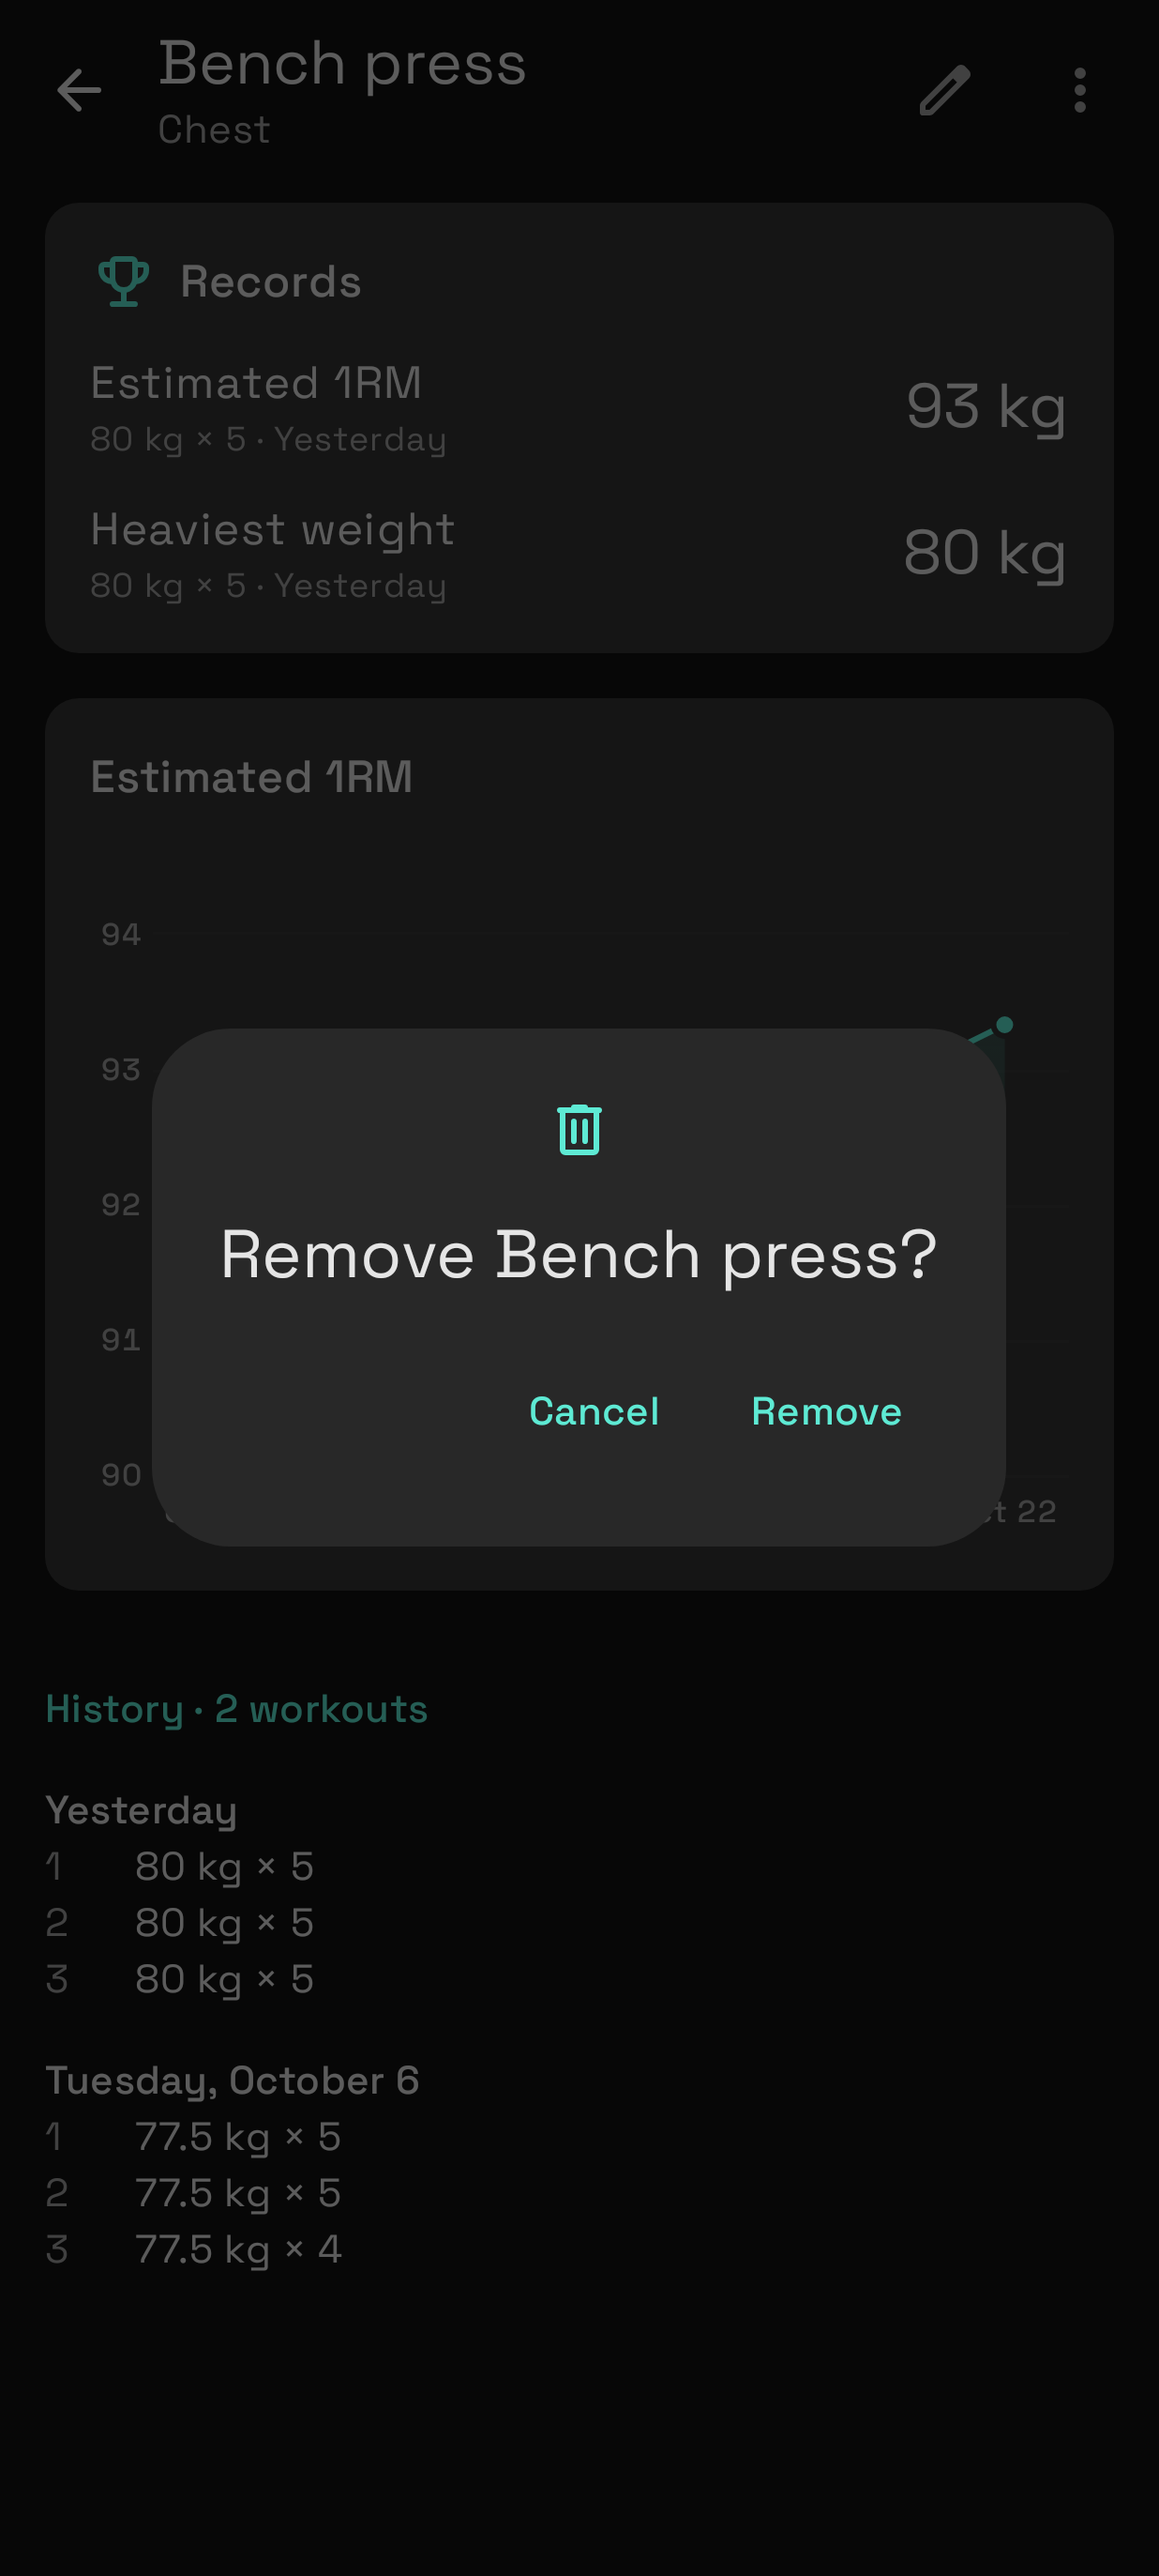
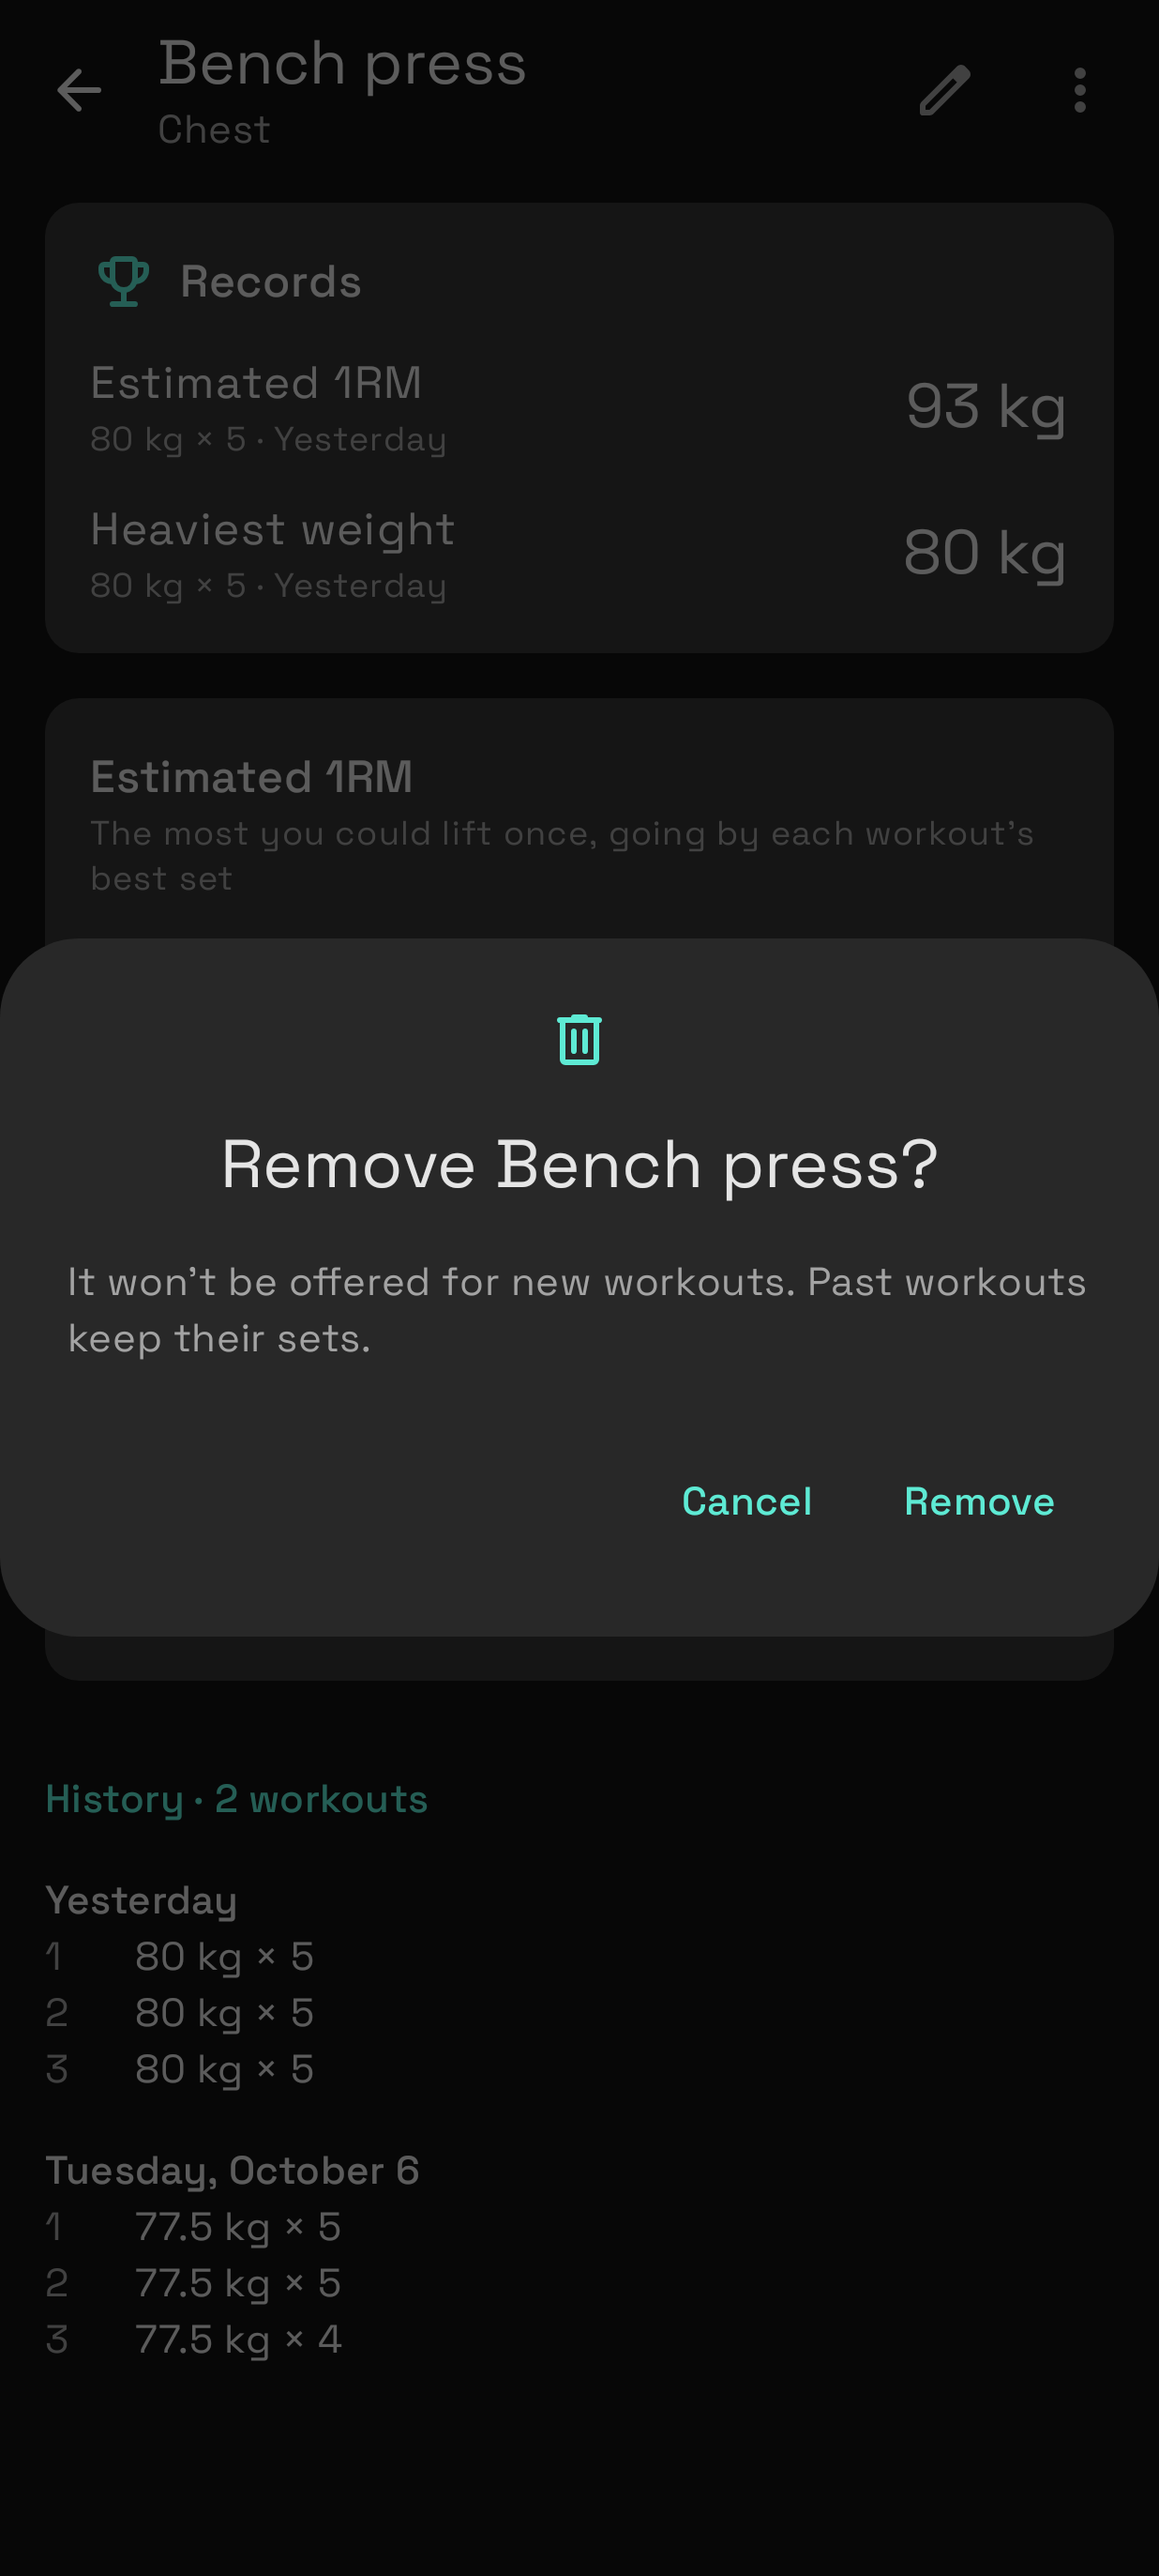
feat(lift): bring back lines that say what the screen can't
Hints for bodyweight loads, each side and the estimated 1RM, what deleting or removing does to past workouts, empty exercise, template and history pages, and a prompt in the notes field.

diff --git a/apps/lift/src/main/kotlin/dev/freeranger/range/lift/ui/exercise/ExerciseScreens.kt b/apps/lift/src/main/kotlin/dev/freeranger/range/lift/ui/exercise/ExerciseScreens.kt
@@ -10,6 +10,7 @@ import androidx.compose.foundation.layout.fillMaxSize
 import androidx.compose.foundation.layout.fillMaxWidth
 import androidx.compose.foundation.layout.padding
 import androidx.compose.foundation.layout.width
+import androidx.compose.foundation.layout.wrapContentSize
 import androidx.compose.foundation.lazy.LazyColumn
 import androidx.compose.foundation.lazy.items
 import androidx.compose.material3.AlertDialog
@@ -36,6 +37,7 @@ import androidx.compose.ui.Alignment
 import androidx.compose.ui.Modifier
 import androidx.compose.ui.res.pluralStringResource
 import androidx.compose.ui.res.stringResource
+import androidx.compose.ui.text.style.TextAlign
 import androidx.compose.ui.unit.dp
 import androidx.lifecycle.compose.collectAsStateWithLifecycle
 import androidx.lifecycle.viewmodel.compose.viewModel
@@ -204,6 +206,17 @@ fun ExerciseDetailScreen(
         },
     ) { padding ->
         LazyColumn(Modifier.fillMaxSize(), contentPadding = PaddingValues(top = padding.calculateTopPadding(), bottom = padding.calculateBottomPadding() + RangeSpace.s4)) {
+            if (state.sessions.isEmpty() && exercise != null) {
+                item(key = "empty") {
+                    Text(
+                        stringResource(R.string.exercise_no_sets),
+                        modifier = Modifier.fillParentMaxSize().wrapContentSize().padding(RangeSpace.s8),
+                        style = MaterialTheme.typography.bodyLarge,
+                        color = MaterialTheme.colorScheme.onSurfaceVariant,
+                        textAlign = TextAlign.Center,
+                    )
+                }
+            }
             if (state.records.isNotEmpty()) {
                 item(key = "records") { RecordsCard(state.records, today, format) }
             }
@@ -241,6 +254,7 @@ fun ExerciseDetailScreen(
             onDismissRequest = { removing = false },
             icon = { Icon(RangeIcons.Delete, contentDescription = null) },
             title = { Text(stringResource(R.string.exercise_remove_title, format.name(exercise))) },
+            text = { Text(stringResource(R.string.exercise_remove_text)) },
             confirmButton = {
                 TextButton(
                     onClick = {
@@ -270,7 +284,16 @@ private fun ProgressCard(progression: Progression, today: LocalDate, format: Lif
     val value = { v: Double -> format.metric(metric, v) }
     Card(Modifier.fillMaxWidth().padding(horizontal = RangeSpace.gutter, vertical = RangeSpace.s2)) {
         Column(Modifier.padding(RangeSpace.s4), verticalArrangement = Arrangement.spacedBy(RangeSpace.s3)) {
-            Text(stringResource(metric.title), style = MaterialTheme.typography.titleMedium)
+            Column {
+                Text(stringResource(metric.title), style = MaterialTheme.typography.titleMedium)
+                if (metric == ProgressMetric.OneRepMax) {
+                    Text(
+                        stringResource(R.string.progress_one_rep_max_hint),
+                        style = MaterialTheme.typography.bodySmall,
+                        color = MaterialTheme.colorScheme.onSurfaceVariant,
+                    )
+                }
+            }
             if (ranges.size > 1) {
                 Row(horizontalArrangement = Arrangement.spacedBy(RangeSpace.s2)) {
                     ranges.forEach {

diff --git a/apps/lift/src/main/kotlin/dev/freeranger/range/lift/ui/exercise/ExerciseList.kt b/apps/lift/src/main/kotlin/dev/freeranger/range/lift/ui/exercise/ExerciseList.kt
@@ -8,6 +8,7 @@ import androidx.compose.foundation.layout.fillMaxSize
 import androidx.compose.foundation.layout.fillMaxWidth
 import androidx.compose.foundation.layout.padding
 import androidx.compose.foundation.layout.size
+import androidx.compose.foundation.layout.wrapContentSize
 import androidx.compose.foundation.lazy.LazyColumn
 import androidx.compose.foundation.lazy.items
 import androidx.compose.foundation.shape.CircleShape
@@ -27,6 +28,7 @@ import androidx.compose.ui.Alignment
 import androidx.compose.ui.Modifier
 import androidx.compose.ui.graphics.compositeOver
 import androidx.compose.ui.res.stringResource
+import androidx.compose.ui.text.style.TextAlign
 import androidx.compose.ui.unit.dp
 import dev.freeranger.range.lift.R
 import dev.freeranger.range.lift.data.Exercise
@@ -50,6 +52,8 @@ fun ExerciseList(
     modifier: Modifier = Modifier,
     recent: List<Exercise> = emptyList(),
     selected: List<Long>? = null,
+    /** Says so when the library is empty, once it has loaded. */
+    showEmpty: Boolean = false,
 ) {
     val format = rememberLiftFormat()
     var query by rememberSaveable { mutableStateOf("") }
@@ -97,6 +101,17 @@ fun ExerciseList(
                 singleLine = true,
                 shape = CircleShape,
             )
+        }
+        if (showEmpty && exercises.none { !it.archived }) {
+            item(key = "empty") {
+                Text(
+                    stringResource(R.string.exercises_empty),
+                    modifier = Modifier.fillParentMaxSize().wrapContentSize().padding(RangeSpace.s8),
+                    style = MaterialTheme.typography.bodyLarge,
+                    color = MaterialTheme.colorScheme.onSurfaceVariant,
+                    textAlign = TextAlign.Center,
+                )
+            }
         }
         if (groups.isEmpty() && query.isNotBlank()) {
             item(key = "none") {

diff --git a/apps/lift/src/main/kotlin/dev/freeranger/range/lift/ui/template/TemplatesScreen.kt b/apps/lift/src/main/kotlin/dev/freeranger/range/lift/ui/template/TemplatesScreen.kt
@@ -5,6 +5,7 @@ import androidx.compose.foundation.layout.PaddingValues
 import androidx.compose.foundation.layout.fillMaxSize
 import androidx.compose.foundation.layout.fillMaxWidth
 import androidx.compose.foundation.layout.padding
+import androidx.compose.foundation.layout.wrapContentSize
 import androidx.compose.foundation.lazy.LazyColumn
 import androidx.compose.foundation.lazy.items
 import androidx.compose.material3.Card
@@ -23,6 +24,7 @@ import androidx.compose.runtime.saveable.rememberSaveable
 import androidx.compose.runtime.setValue
 import androidx.compose.ui.Modifier
 import androidx.compose.ui.res.stringResource
+import androidx.compose.ui.text.style.TextAlign
 import androidx.compose.ui.text.style.TextOverflow
 import androidx.compose.ui.unit.dp
 import androidx.lifecycle.compose.collectAsStateWithLifecycle
@@ -93,6 +95,17 @@ fun TemplatesScreen(
             Modifier.fillMaxSize(),
             contentPadding = PaddingValues(top = padding.calculateTopPadding() + RangeSpace.s2, bottom = padding.calculateBottomPadding() + 96.dp),
         ) {
+            if (state.loaded && state.templates.isEmpty()) {
+                item(key = "empty") {
+                    Text(
+                        stringResource(R.string.templates_empty),
+                        modifier = Modifier.fillParentMaxSize().wrapContentSize().padding(RangeSpace.s8),
+                        style = MaterialTheme.typography.bodyLarge,
+                        color = MaterialTheme.colorScheme.onSurfaceVariant,
+                        textAlign = TextAlign.Center,
+                    )
+                }
+            }
             items(state.templates, key = { it.template.id }) { template ->
                 TemplateCard(template, state.lastDone[template.template.id], today, format, onClick = { onOpen(template.template.id) })
             }

diff --git a/apps/lift/src/main/kotlin/dev/freeranger/range/lift/ui/exercise/ExerciseEditScreen.kt b/apps/lift/src/main/kotlin/dev/freeranger/range/lift/ui/exercise/ExerciseEditScreen.kt
@@ -21,6 +21,7 @@ import androidx.compose.material3.Icon
 import androidx.compose.material3.IconButton
 import androidx.compose.material3.ListItem
 import androidx.compose.material3.ListItemDefaults
+import androidx.compose.material3.MaterialTheme
 import androidx.compose.material3.OutlinedTextField
 import androidx.compose.material3.RadioButton
 import androidx.compose.material3.Scaffold
@@ -177,10 +178,12 @@ fun ExerciseEditScreen(
                     )
                 }
             }
+            if (load == Load.Bodyweight) Hint(stringResource(R.string.load_bodyweight_hint))
 
             RangeSectionHeader(stringResource(R.string.exercise_more))
             ListItem(
                 headlineContent = { Text(stringResource(R.string.exercise_each_side)) },
+                supportingContent = { Text(stringResource(R.string.exercise_each_side_hint)) },
                 trailingContent = { Switch(checked = perSide, onCheckedChange = null) },
                 colors = ListItemDefaults.colors(containerColor = Color.Transparent),
                 modifier = Modifier.toggleable(value = perSide, role = Role.Switch) { perSide = it },
@@ -189,4 +192,15 @@ fun ExerciseEditScreen(
     }
 
     if (autoFocus) LaunchedEffect(Unit) { focus.requestFocus() }
+}
+
+/** A line under a choice that says what the choice can't. */
+@Composable
+private fun Hint(text: String) {
+    Text(
+        text,
+        modifier = Modifier.padding(horizontal = RangeSpace.gutter, vertical = RangeSpace.s2),
+        style = MaterialTheme.typography.bodySmall,
+        color = MaterialTheme.colorScheme.onSurfaceVariant,
+    )
 }

diff --git a/apps/lift/src/main/kotlin/dev/freeranger/range/lift/ui/workout/WorkoutScreen.kt b/apps/lift/src/main/kotlin/dev/freeranger/range/lift/ui/workout/WorkoutScreen.kt
@@ -417,7 +417,7 @@ fun WorkoutScreen(
             autoFocus = initialDialog != WorkoutDialog.SaveTemplate,
         )
         WorkoutDialog.Notes -> NameSheet(
-            placeholder = stringResource(R.string.workout_notes),
+            placeholder = stringResource(R.string.workout_notes_placeholder),
             saveLabel = stringResource(R.string.workout_save),
             onSave = actions.setNotes,
             onDismiss = { dialog = null },
@@ -441,7 +441,9 @@ fun WorkoutScreen(
         )
         WorkoutDialog.Delete -> AlertDialog(
             onDismissRequest = { dialog = null },
+            icon = { Icon(RangeIcons.Delete, contentDescription = null) },
             title = { Text(stringResource(if (workout.isFinished) R.string.workout_delete_title else R.string.workout_discard_title)) },
+            text = if (workout.isFinished) ({ Text(stringResource(R.string.workout_delete_text)) }) else null,
             confirmButton = {
                 TextButton(
                     onClick = {

diff --git a/apps/lift/src/main/kotlin/dev/freeranger/range/lift/ui/template/TemplateViewModels.kt b/apps/lift/src/main/kotlin/dev/freeranger/range/lift/ui/template/TemplateViewModels.kt
@@ -20,6 +20,7 @@ data class TemplatesState(
     val templates: List<WorkoutTemplate> = emptyList(),
     /** When each template was last done, by template id, from the workouts started from it. */
     val lastDone: Map<Long, Instant> = emptyMap(),
+    val loaded: Boolean = false,
 )
 
 /** When each template was last done, from the finished workouts started from it. */
@@ -30,7 +31,7 @@ fun lastDone(logs: List<WorkoutLog>): Map<Long, Instant> =
 
 class TemplatesViewModel(private val repository: LiftRepository) : ViewModel() {
     val state: StateFlow<TemplatesState> = combine(repository.templates, repository.logs) { templates, logs ->
-        TemplatesState(templates, lastDone(logs))
+        TemplatesState(templates, lastDone(logs), loaded = true)
     }.stateIn(viewModelScope, SharingStarted.WhileSubscribed(5_000), TemplatesState())
 
     /** Makes an empty template and hands over its id to open it. */

diff --git a/apps/lift/src/test/kotlin/dev/freeranger/range/lift/ScreenshotTest.kt b/apps/lift/src/test/kotlin/dev/freeranger/range/lift/ScreenshotTest.kt
@@ -277,6 +277,9 @@ class ScreenshotTest {
     }
 
     @Test
+    fun templatesEmpty() = capture { TemplatesScreen(TemplatesState(loaded = true), now, onBack = {}, onOpen = {}, onCreate = {}) }
+
+    @Test
     fun template() = capture { TemplateScreen(templateState(templates[0]), now, TemplateActions()) }
 
     @Test
@@ -369,6 +372,9 @@ class ScreenshotTest {
 
     @Test
     fun workoutFinished() = capture { WorkoutScreen(finishedState, now, WorkoutActions()) }
+
+    @Test
+    fun workoutDeleting() = capture { WorkoutScreen(finishedState, now, WorkoutActions(), initialDialog = WorkoutDialog.Delete) }
 
     @Test
     fun exercisePicker() = capture { ExercisePickerScreen(PickerState(exercises, bestSets(logs), recentExercises(logs)), swapping = false, onPick = {}, onCreate = {}, onBack = {}, initialSelection = listOf(id("bench_press"), id("dip"))) }

diff --git a/apps/lift/src/main/kotlin/dev/freeranger/range/lift/ui/workout/SummaryScreen.kt b/apps/lift/src/main/kotlin/dev/freeranger/range/lift/ui/workout/SummaryScreen.kt
@@ -222,6 +222,7 @@ fun SummaryScreen(
                 OutlinedTextField(
                     state = notes,
                     modifier = Modifier.fillMaxWidth().padding(horizontal = RangeSpace.gutter),
+                    placeholder = { Text(stringResource(R.string.workout_notes_placeholder)) },
                     lineLimits = TextFieldLineLimits.MultiLine(minHeightInLines = 3),
                     keyboardOptions = KeyboardOptions(capitalization = KeyboardCapitalization.Sentences),
                 )

diff --git a/apps/lift/src/main/kotlin/dev/freeranger/range/lift/ui/template/TemplateScreen.kt b/apps/lift/src/main/kotlin/dev/freeranger/range/lift/ui/template/TemplateScreen.kt
@@ -274,6 +274,7 @@ fun TemplateScreen(
             onDismissRequest = { dialog = null },
             icon = { Icon(RangeIcons.Delete, contentDescription = null) },
             title = { Text(stringResource(R.string.template_delete_title, template.name)) },
+            text = { Text(stringResource(R.string.template_delete_text)) },
             confirmButton = {
                 TextButton(
                     onClick = {

diff --git a/apps/lift/src/main/kotlin/dev/freeranger/range/lift/ui/home/HomeScreen.kt b/apps/lift/src/main/kotlin/dev/freeranger/range/lift/ui/home/HomeScreen.kt
@@ -228,6 +228,7 @@ fun HomeScreen(
                 bests = state.bests,
                 onClick = { actions.openExercise(it.id) },
                 contentPadding = contentPadding,
+                showEmpty = state.loaded,
             )
         }
     }
